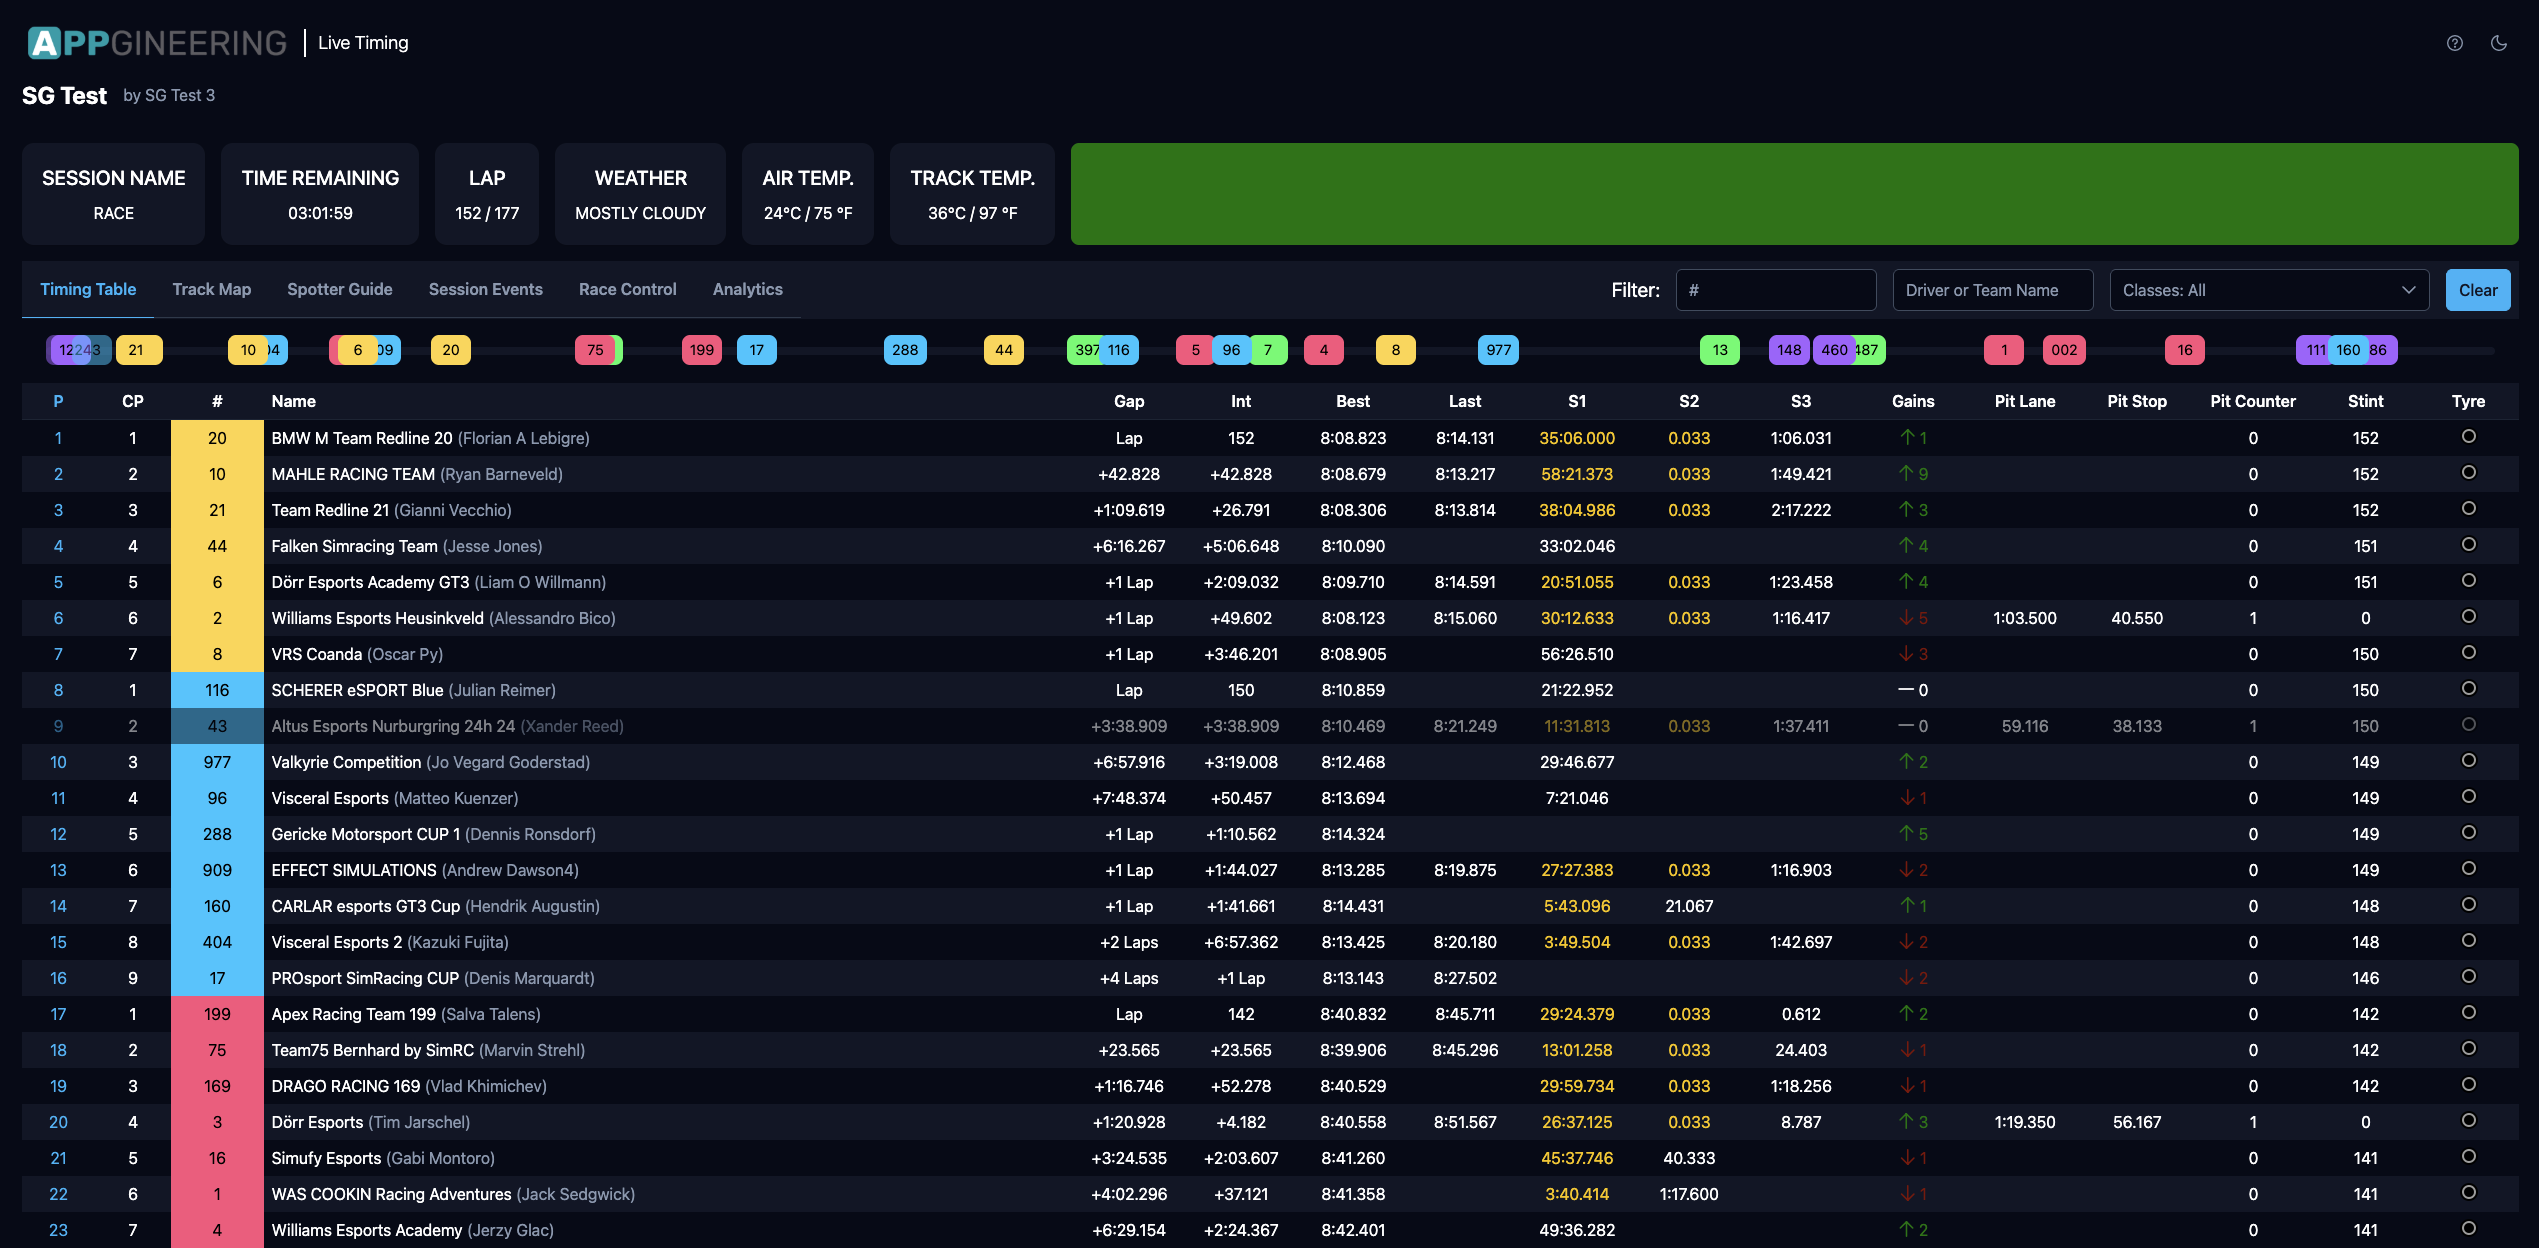
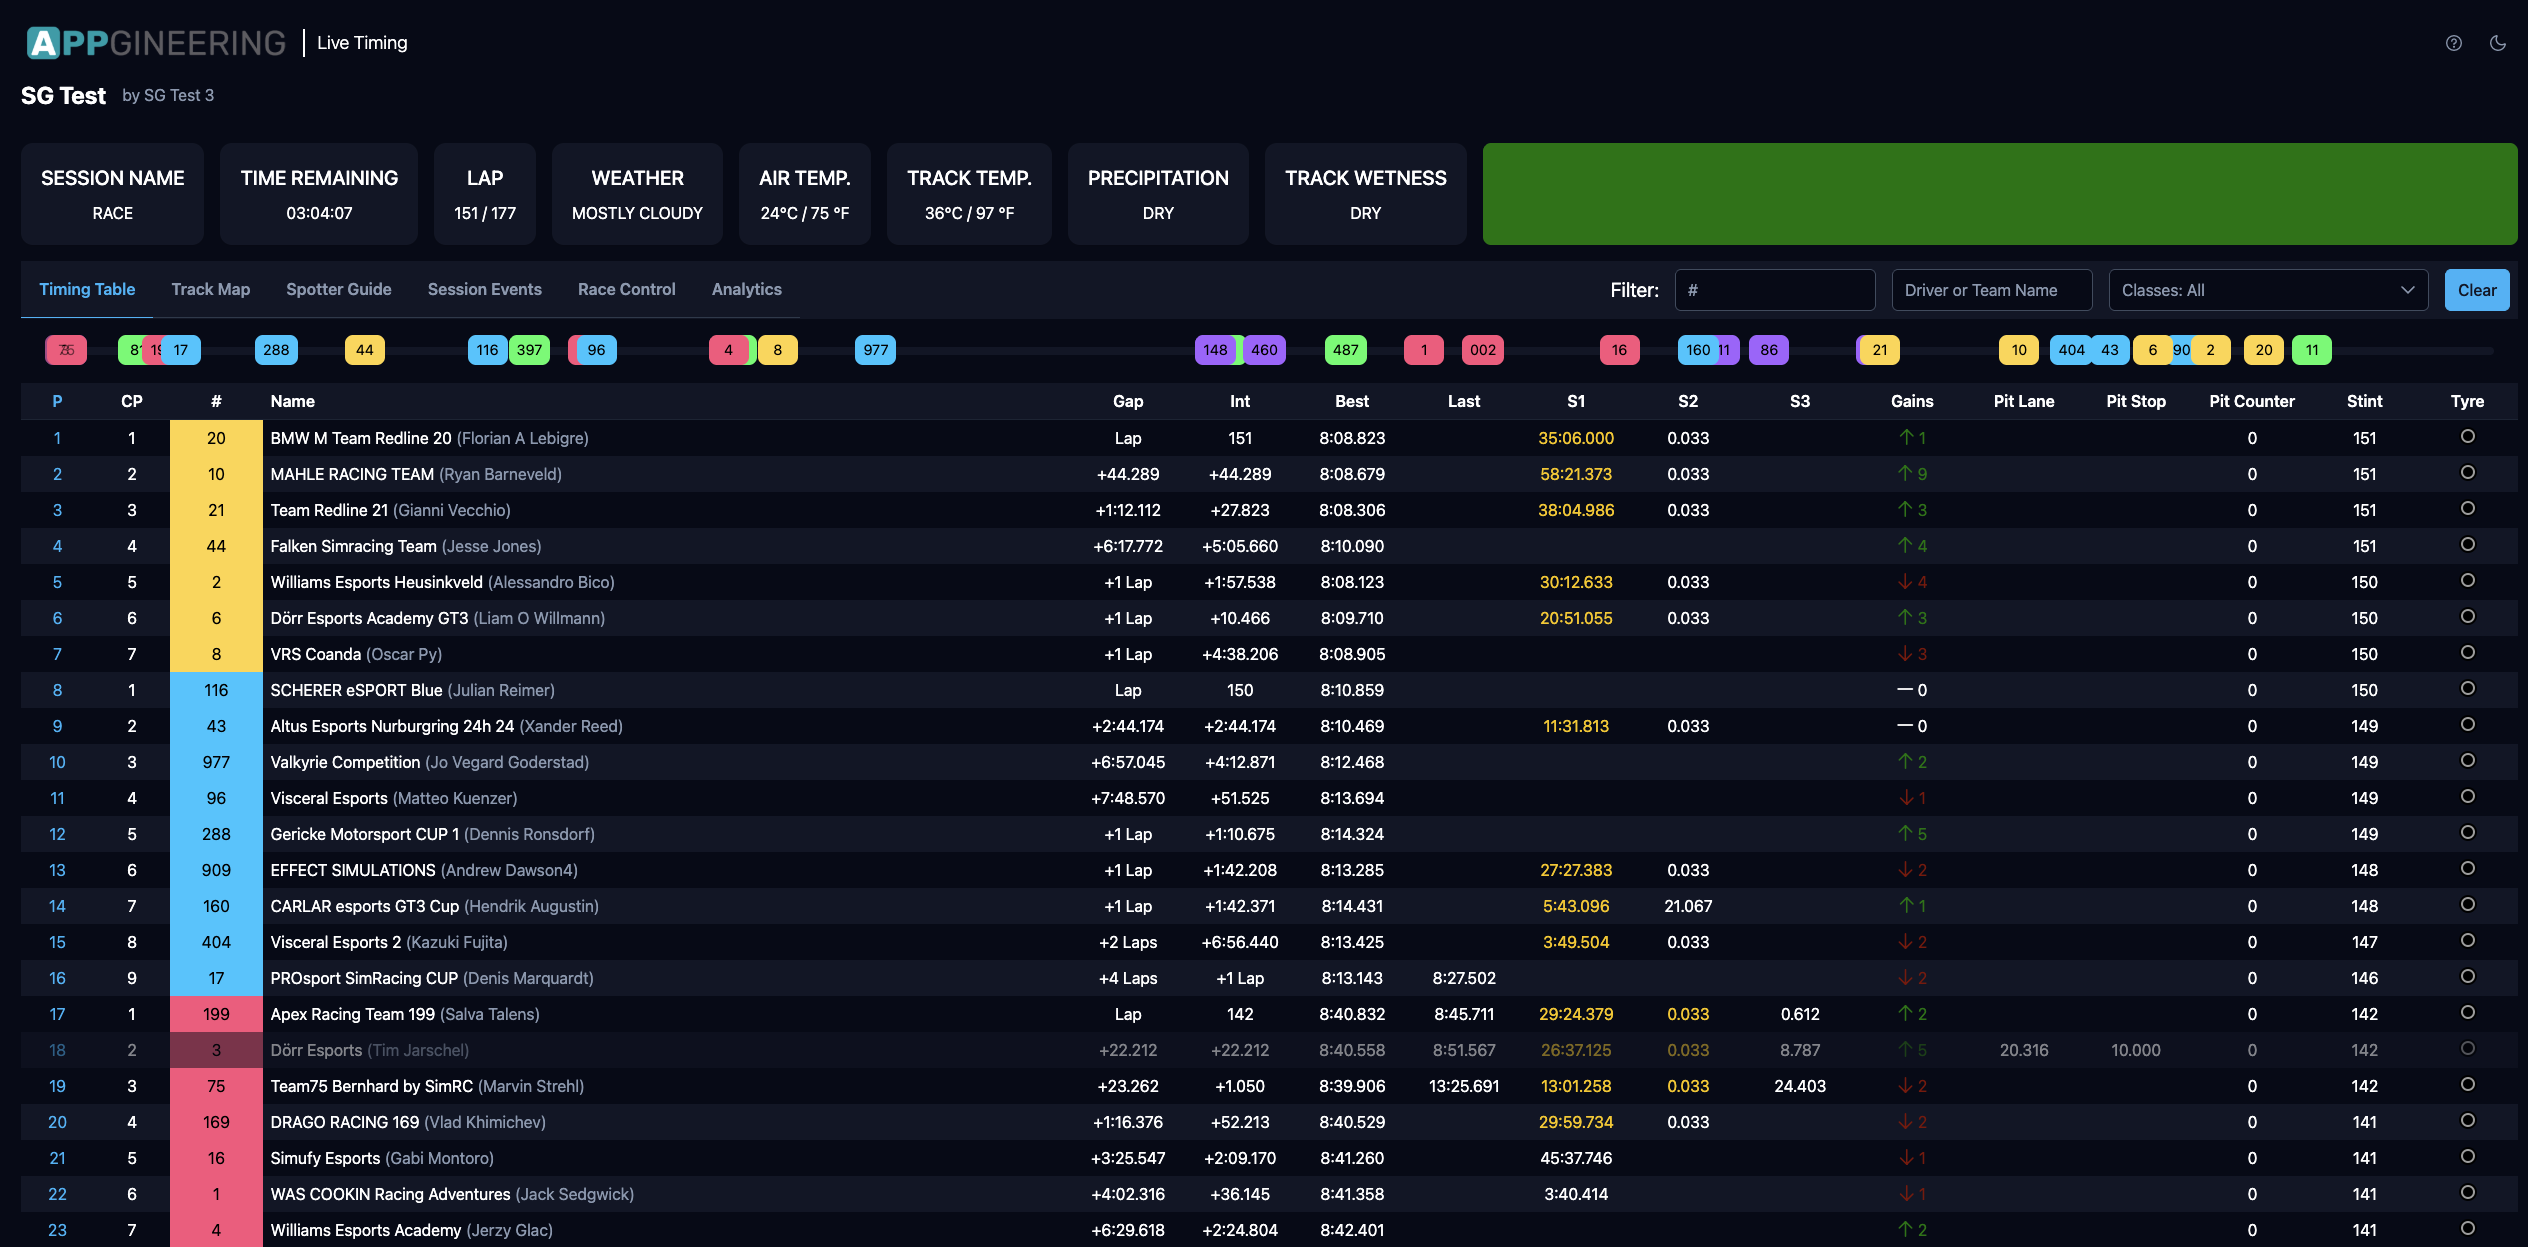
Add docs for rain parameters.

diff --git a/content/live-timing/docs/viewer/room/header.md b/content/live-timing/docs/viewer/room/header.md
@@ -24,6 +24,8 @@ right:
   racetrack are.
 * **Air Temp**: Shows the current air temperature at the start finish line in Celsius and Fahrenheit.
 * **Track Temp**: Shows the current tack temperature at the start finish line in Celsius and Fahrenheit.
+* **Precipitation**: Shows how much it is raining right now at the start-finish line.
+* **Track Wetness**: Shows how wet the track is at the start-finish line.
 
 Next to the track temperature, there is large colored box. This box is the current flag state of the session. Most of
 the time, the box is green and therefore the session is green. Other possible flags could be yellow, white or checkered.
